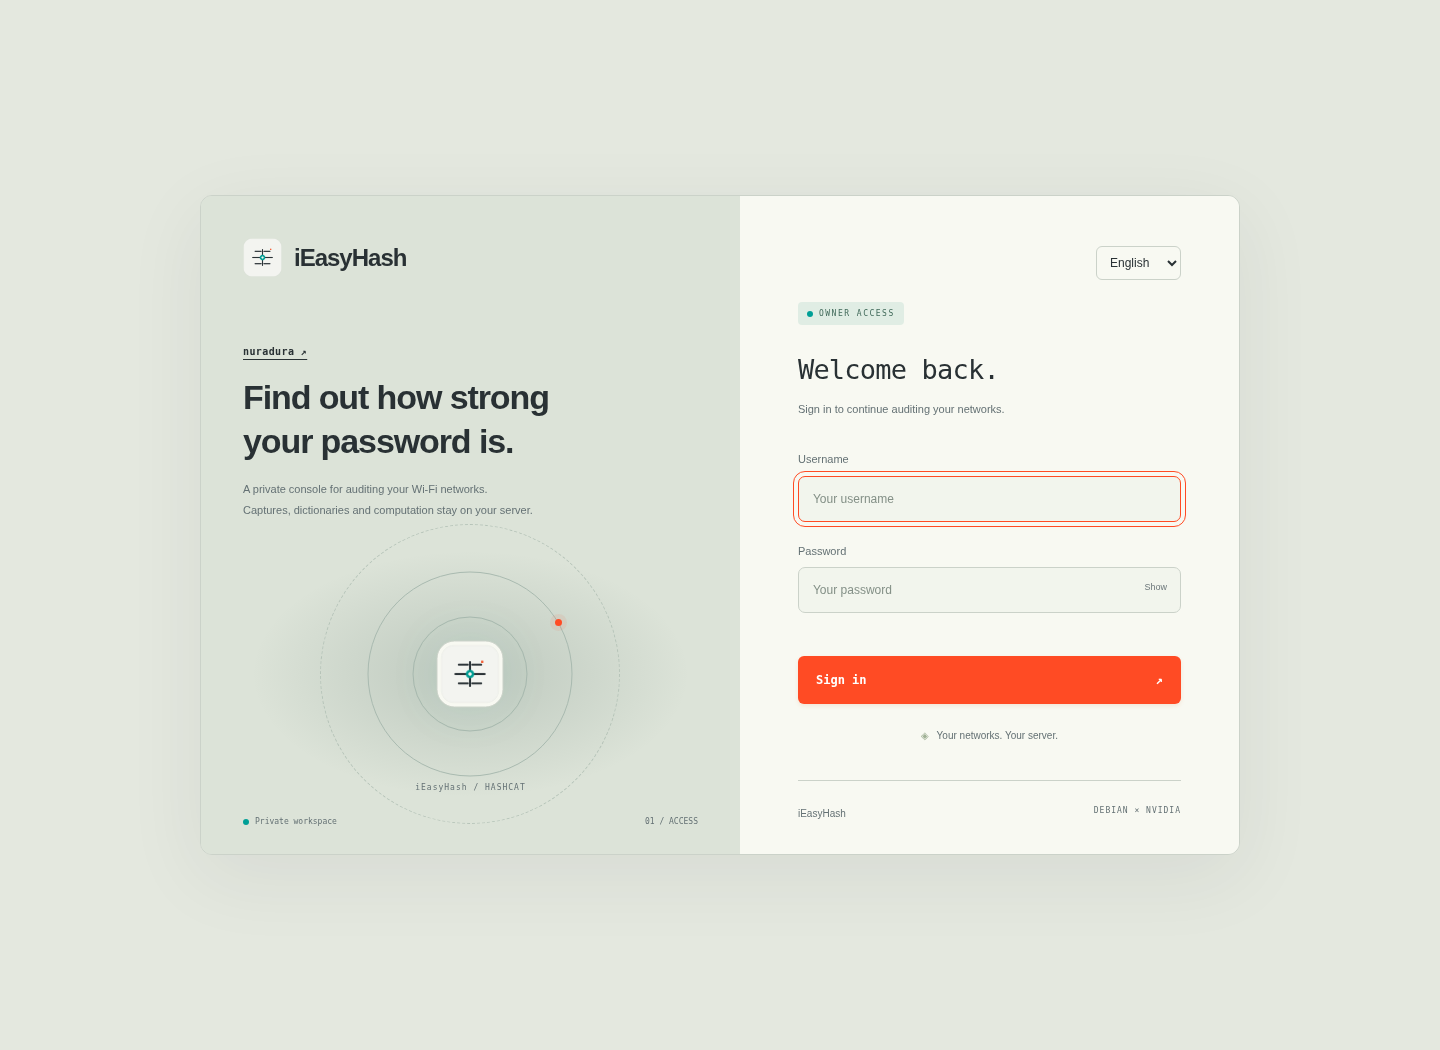
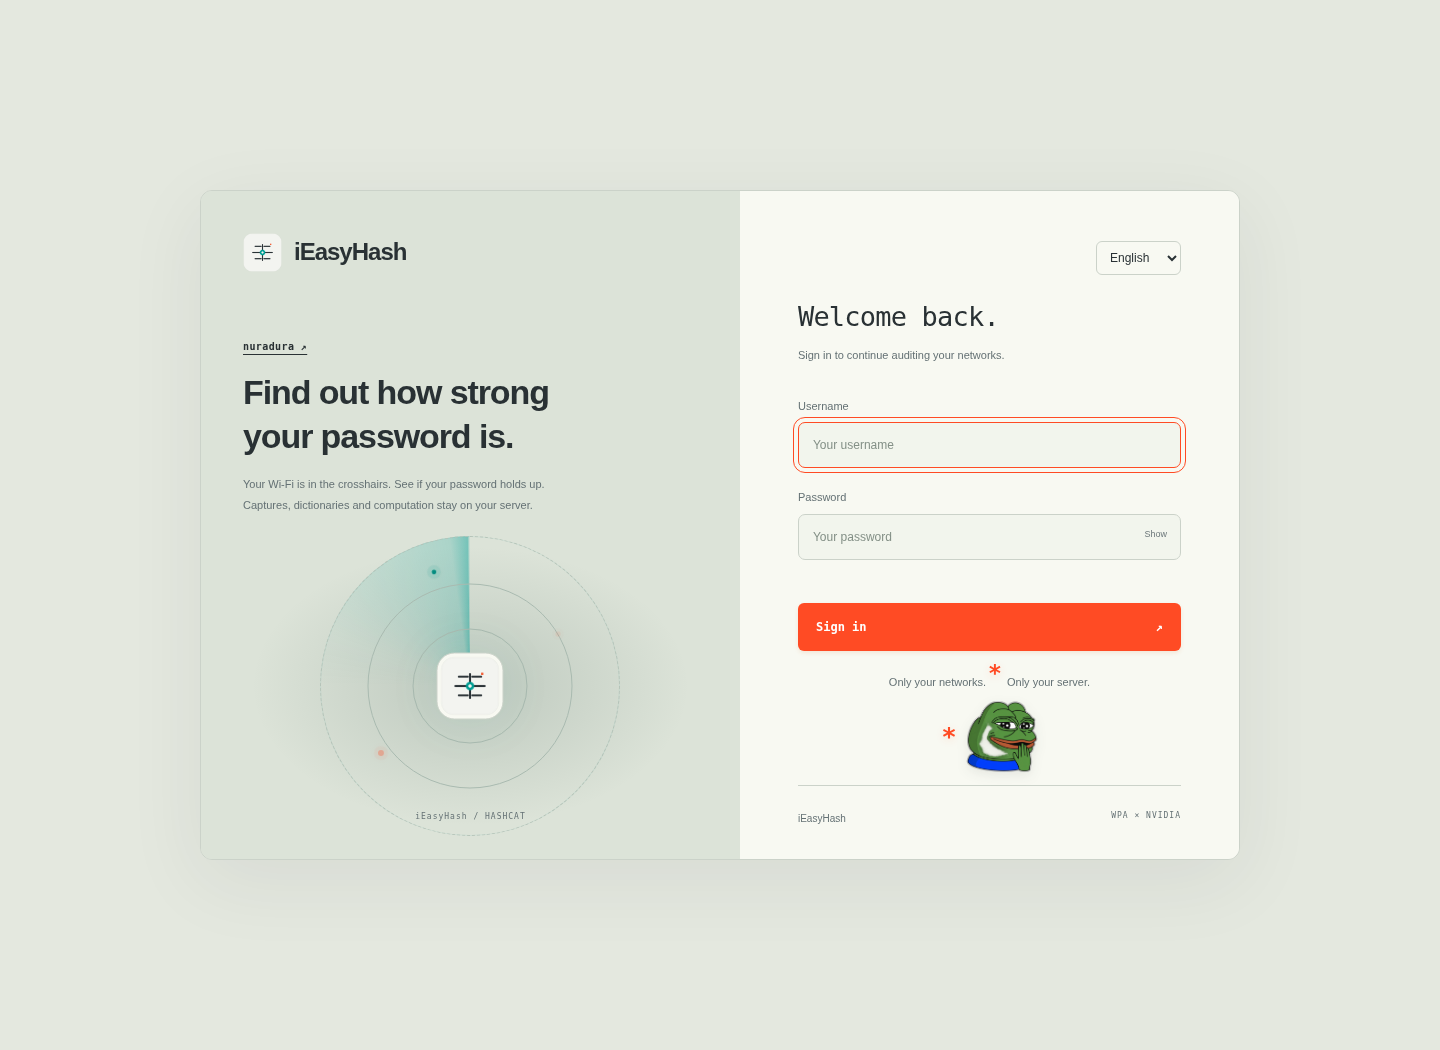
Add radar login motion and playful multilingual frog footnote

diff --git a/webapp/templates/login.html b/webapp/templates/login.html
@@ -1,6 +1,6 @@
 <!doctype html>
 <html lang="{{ lang }}"><head><meta charset="utf-8"><meta name="viewport" content="width=device-width,initial-scale=1"><meta name="robots" content="noindex,nofollow,noarchive"><meta name="login-nonce" content="{{ nonce }}"><title>{{ t("Sign in · iEasyHash") }}</title><link rel="icon" href="/static/mark.png"><link rel="stylesheet" href="/static/style.css"><script src="/static/i18n.js" defer></script><script src="/static/login.js" defer></script></head>
 <body class="login-body"><main class="login-shell">
-<section class="login-visual"><a class="brand" href="/login"><img src="/static/mark.png" alt=""><span>iEasyHash</span></a><div class="login-caption"><span class="eyebrow inverse"><a href="https://github.com/nuradura" target="_blank" rel="noopener noreferrer">nuradura ↗</a></span><h1>{{ t("Find out how strong") }}<br>{{ t("your password is.") }}</h1><p>{{ t("A private console for auditing your Wi-Fi networks.") }}<br>{{ t("Captures, dictionaries and computation stay on your server.") }}</p></div><div class="signal-scene" aria-hidden="true"><div class="signal-orbit orbit-one"></div><div class="signal-orbit orbit-two"></div><div class="signal-orbit orbit-three"></div><div class="signal-core"><img src="/static/mark.png" alt=""></div><span class="signal-label">iEasyHash / HASHCAT</span><span class="signal-dot"></span></div><div class="login-foot"><span class="status-dot"></span> {{ t("Private workspace") }} <span>01 / ACCESS</span></div></section>
-<section class="login-form-panel"><label class="language-picker"><span class="sr-only">{{ t('Language') }}</span><select id="language-select" aria-label="{{ t('Language') }}">{% for code, label in languages.items() %}<option value="{{ code }}"{% if code == language %} selected{% endif %}>{{ label }}</option>{% endfor %}</select></label><div class="access-badge"><span class="status-dot"></span> {{ t("OWNER ACCESS") }}</div><h2>{{ t("Welcome back.") }}</h2><p class="muted">{{ t("Sign in to continue auditing your networks.") }}</p><form id="login-form"><label for="username">{{ t("Username") }}</label><input id="username" name="username" autocomplete="username" required autofocus placeholder="{{ t("Your username") }}"><label for="password">{{ t("Password") }}</label><div class="password-field"><input id="password" name="password" type="password" autocomplete="current-password" required placeholder="{{ t("Your password") }}"><button type="button" id="toggle-password" class="text-button" aria-label="{{ t("Show password") }}">{{ t("Show") }}</button></div><div id="login-error" class="form-error" role="alert"></div><button class="button primary login-submit" type="submit">{{ t("Sign in") }} <span>↗</span></button></form><p class="login-note"><span>◈</span> {{ t("Your networks. Your server.") }}</p><div class="login-bottom">iEasyHash <span>DEBIAN × NVIDIA</span></div></section>
+<section class="login-visual"><a class="brand" href="/login"><img src="/static/mark.png" alt=""><span>iEasyHash</span></a><div class="login-caption"><span class="eyebrow inverse"><a href="https://github.com/nuradura" target="_blank" rel="noopener noreferrer">nuradura ↗</a></span><h1>{{ t("Find out how strong") }}<br>{{ t("your password is.") }}</h1><p>{{ t("Your Wi-Fi is in the crosshairs. See if your password holds up.") }}<br>{{ t("Captures, dictionaries and computation stay on your server.") }}</p></div><div class="signal-scene" aria-hidden="true"><div class="radar-sweep"></div><div class="radar-grid"></div><div class="signal-orbit orbit-one"></div><div class="signal-orbit orbit-two"></div><div class="signal-orbit orbit-three"></div><div class="signal-core"><img src="/static/mark.png" alt=""></div><span class="signal-label">iEasyHash / HASHCAT</span><span class="signal-dot radar-target target-one"></span><span class="radar-target target-two"></span><span class="radar-target target-three"></span></div></section>
+<section class="login-form-panel"><label class="language-picker"><span class="sr-only">{{ t('Language') }}</span><select id="language-select" aria-label="{{ t('Language') }}">{% for code, label in languages.items() %}<option value="{{ code }}"{% if code == language %} selected{% endif %}>{{ label }}</option>{% endfor %}</select></label><h2>{{ t("Welcome back.") }}</h2><p class="muted">{{ t("Sign in to continue auditing your networks.") }}</p><form id="login-form"><label for="username">{{ t("Username") }}</label><input id="username" name="username" autocomplete="username" required autofocus placeholder="{{ t("Your username") }}"><label for="password">{{ t("Password") }}</label><div class="password-field"><input id="password" name="password" type="password" autocomplete="current-password" required placeholder="{{ t("Your password") }}"><button type="button" id="toggle-password" class="text-button" aria-label="{{ t("Show password") }}">{{ t("Show") }}</button></div><div id="login-error" class="form-error" role="alert"></div><button class="button primary login-submit" type="submit">{{ t("Sign in") }} <span>↗</span></button></form><div class="login-note"><p>{{ t("Only your networks.") }}<a class="meme-asterisk" href="#frog-footnote" aria-label="{{ t("A knowing frog smile") }}">*</a> {{ t("Only your server.") }}</p><div class="frog-footnote" id="frog-footnote"><span class="meme-asterisk" aria-hidden="true">*</span><img src="/static/frog.png" width="72" height="72" alt="{{ t("A knowing frog smile") }}"></div></div><div class="login-bottom">iEasyHash <span>WPA × NVIDIA</span></div></section>
 </main></body></html>

diff --git a/webapp/static/style.css b/webapp/static/style.css
@@ -80,6 +80,26 @@ th{background:#edf1e7;color:var(--muted);font-family:var(--mono);font-weight:700
 .signal-core img{width:59px;height:59px}
 .signal-dot{background:var(--accent);box-shadow:0 0 0 5px #ff4b2415}
 .access-badge{background:#e0ede4;color:#426b5b}
+.signal-scene{min-height:230px}
+.radar-sweep,.radar-grid{position:absolute;width:300px;height:300px;left:50%;top:50%;margin:-150px 0 0 -150px;border-radius:50%;pointer-events:none}
+.radar-sweep{background:conic-gradient(from 0deg,transparent 0deg 270deg,#009f9608 292deg,#009f9638 352deg,#009f9675 359deg,transparent 360deg);animation:radar-scan 7s linear infinite}
+.radar-grid{background:linear-gradient(transparent calc(50% - .5px),#009f9618 50%,transparent calc(50% + .5px)),linear-gradient(90deg,transparent calc(50% - .5px),#009f9618 50%,transparent calc(50% + .5px));border:1px solid #009f9612}
+.signal-core{z-index:2}
+.signal-label{z-index:2}
+.radar-target{position:absolute;width:6px;height:6px;border-radius:50%;background:var(--accent);box-shadow:0 0 0 4px #ff4b2420,0 0 13px #ff4b2450;animation:radar-echo 7s linear infinite}
+.target-one{left:calc(50% + 85px);top:calc(50% - 55px);animation-delay:-5.89s}
+.target-two{left:calc(50% - 92px);top:calc(50% + 64px);animation-delay:-2.44s}
+.target-three{left:calc(50% - 38px);top:calc(50% - 116px);animation-delay:-.35s;width:4px;height:4px;background:var(--green);box-shadow:0 0 0 4px #009f9618,0 0 11px #009f9640}
+@keyframes radar-scan{to{transform:rotate(360deg)}}
+@keyframes radar-echo{0%,4%{opacity:1;transform:scale(1.15)}35%{opacity:.35;transform:scale(1)}70%,100%{opacity:.1;transform:scale(.85)}}
+.login-note{margin-top:22px;margin-bottom:12px;text-align:center}
+.login-note p{font-size:11px;line-height:1.6}
+.login-note .meme-asterisk{color:var(--accent);font:700 23px var(--mono);vertical-align:super;margin:0 2px;line-height:0;text-shadow:0 2px 10px #ff4b2425}
+.frog-footnote{display:flex;align-items:center;justify-content:center;gap:9px;margin-top:10px;scroll-margin-top:20px}
+.frog-footnote img{width:72px;height:72px;object-fit:contain;filter:drop-shadow(0 4px 6px #29313415)}
+.frog-footnote .meme-asterisk{font-size:25px;margin:0}
+@media(prefers-reduced-motion:reduce){.radar-sweep,.radar-target{animation:none}.radar-sweep{transform:rotate(35deg)}.radar-target{opacity:.7}}
+@media(max-width:650px){.signal-scene{display:block;height:210px;min-height:210px;flex:none;margin-top:12px}.radar-sweep,.radar-grid{width:210px;height:210px;margin:-105px 0 0 -105px}.orbit-three{width:210px;height:210px}.orbit-two{width:150px;height:150px}.orbit-one{width:80px;height:80px}.target-one{left:calc(50% + 60px);top:calc(50% - 39px)}.target-two{left:calc(50% - 65px);top:calc(50% + 45px)}.target-three{left:calc(50% - 27px);top:calc(50% - 81px)}.signal-label{bottom:0;font-size:7px}.signal-core{width:57px;height:57px}.signal-core img{width:49px;height:49px}}
 .login-form-panel input,.field input,.field select{background:#f2f5ed;border-color:var(--line)}
 .login-form-panel input::placeholder{color:#849087}
 .login-form-panel label,.field label,.detail-label{color:var(--muted)}

diff --git a/ops/check_ui.py b/ops/check_ui.py
@@ -70,8 +70,18 @@ def main():
                 context.route("**/api/progress", lambda r: r.fulfill(json={"job": state['jobs'][0] if state['jobs'] else None, "worker_online": True}))
                 page = context.new_page()
                 page.on("pageerror", lambda e: errors.append(str(e)))
-                page.goto(URL + "/login", wait_until="networkidle")
+                page.goto(URL + "/login", wait_until="domcontentloaded")
                 assert page.title() == "Sign in · iEasyHash"
+                page.wait_for_function("document.querySelector('.frog-footnote img').complete && document.querySelector('.frog-footnote img').naturalWidth > 0")
+                page.evaluate('document.fonts.ready')
+                assert page.locator('.radar-sweep').evaluate('el => getComputedStyle(el).animationName') == 'radar-scan'
+                assert page.locator('.access-badge').count() == 0
+                assert page.locator('.login-foot').count() == 0
+                expect(page.locator('.login-bottom')).to_contain_text('WPA × NVIDIA')
+                assert page.locator('.frog-footnote img').evaluate('img => img.complete && img.naturalWidth > 0')
+                page.emulate_media(reduced_motion='reduce')
+                assert page.locator('.radar-sweep').evaluate('el => getComputedStyle(el).animationName') == 'none'
+                page.emulate_media(reduced_motion='no-preference')
                 page.screenshot(path=str(screenshots / "login.png"), full_page=True)
                 page.locator('#username').fill("admin")
                 page.locator('#password').fill(password)
@@ -96,7 +106,7 @@ def main():
                 assert page.locator("#password-form").is_visible()
                 page.locator("#close-modal").click()
                 page.set_viewport_size({"width":390,"height":844})
-                page.goto(URL + "/", wait_until="networkidle")
+                page.goto(URL + "/", wait_until="domcontentloaded")
                 expect(page.locator("#networks-count")).to_have_text("3")
                 page.locator(".private-label").evaluate("(el) => el.textContent = 'DEMO'")
                 page.screenshot(path=str(screenshots / "mobile.png"), full_page=True)
@@ -106,11 +116,11 @@ def main():
                 for language, html in (("en", "en"), ("ru", "ru"), ("zh", "zh-Hans")):
                     for width in (1440, 390):
                         page.set_viewport_size({"width": width, "height": 1050 if width == 1440 else 844})
-                        page.locator('#language-select').select_option(language)
-                        page.wait_for_load_state('networkidle')
+                        with page.expect_navigation(wait_until='domcontentloaded'):
+                            page.locator('#language-select').select_option(language)
                         expect(page.locator('html')).to_have_attribute('lang', html)
                         expect(page.locator('#networks-count')).to_have_text('3')
-                        page.reload(wait_until='networkidle')
+                        page.reload(wait_until='domcontentloaded')
                         expect(page.locator('#language-select')).to_have_value(language)
                         for name in ('dashboard', 'networks', 'wordlists', 'history', 'system'):
                             page.locator(f'[data-page="{name}"]').click()
@@ -132,19 +142,22 @@ def main():
                     page.locator('#account-logout').click()
                     page.wait_for_url(URL + '/login')
                     expect(page.locator('#language-select')).to_have_value(language)
+                    assert page.evaluate('document.documentElement.scrollWidth <= innerWidth'), language
+                    expect(page.locator('.radar-sweep')).to_be_visible()
+                    expect(page.locator('.frog-footnote')).to_be_visible()
                     assert context.request.get(URL + '/api/state').status == 401
                     page.locator('#username').fill('admin')
                     page.locator('#password').fill(password)
                     page.locator('#login-form button[type="submit"]').click()
                     page.wait_for_url(URL + '/')
                 # Measured progress eases to each sample, never predicts beyond it.
-                page.locator('#language-select').select_option('en')
-                page.wait_for_load_state('networkidle')
+                with page.expect_navigation(wait_until='domcontentloaded'):
+                    page.locator('#language-select').select_option('en')
+                expect(page.locator('#networks-count')).to_have_text('3')
                 state['jobs'] = [dict(id='synthetic-run', name='Demo audit', status='running',
                     created=now, started=now, finished=None, next_index=0,
                     hash_ids=['demo-1'], wordlists=words, error=None, runtime=0, workload=2,
                     progress=dict(percent=20, speed=200000, pass_index=1, wordlist='common-passwords.txt'))]
-                page.reload(wait_until='networkidle')
                 expect(page.locator('.run-panel')).to_have_class('panel run-panel is-running')
                 expect(page.locator('.run-progress')).to_have_attribute('aria-valuenow', '20.0')
                 page.locator('.run-progress').evaluate("el => el.dataset.identity = 'persistent'")

diff --git a/README.md b/README.md
@@ -34,6 +34,8 @@ Built with **FastAPI, SQLite, vanilla JavaScript and Hashcat**. The interface us
 
 ## Live progress
 
+The sign-in screen features a radar sweep with fading echoes around the logo, plus a playful frog footnote. Both radar and audit animations respect reduced-motion settings. The `WPA × NVIDIA` label refers to the protocol and accelerator rather than a specific Linux distribution.
+
 Active audits use a softly breathing frame and a moving highlight on the progress bar. Hashcat reports measured progress every second; the console polls a lightweight private telemetry endpoint every 500 ms and eases the bar and percentage between samples. Progress never extrapolates beyond a measured value. Motion respects the system's [reduced-motion preference](https://www.w3.org/WAI/WCAG22/Techniques/css/C39), and pauses when the tab is hidden.
 
 ## Languages
